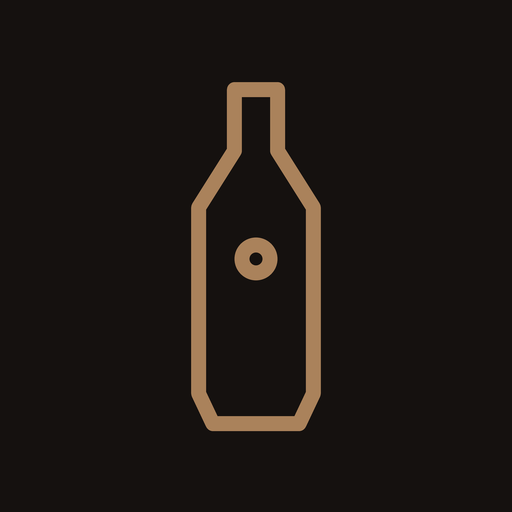
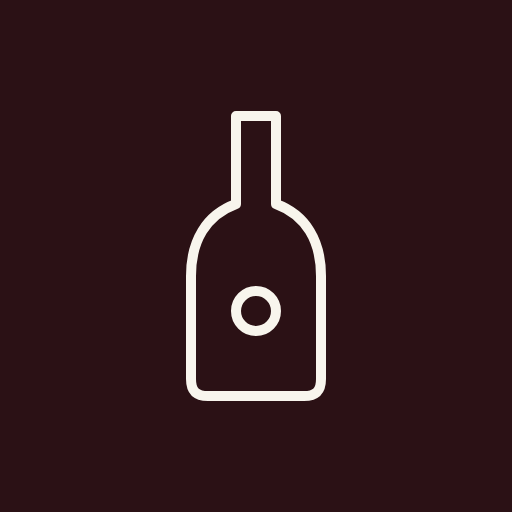
Allinea marchio e icone al brand book Caveau
Aggiorna logo, simbolo e icone, inclusa apple-touch-icon per iPhone. Conserva font e interfaccia Market Edition. Include i due SVG nella cache e aggiorna la versione degli asset.

Changed region(s): [[0.3438, 0.1562, 0.6562, 0.8438], [0.4375, 0.4375, 0.5625, 0.6562]]

diff --git a/index.html b/index.html
@@ -45,7 +45,7 @@ window.CAVEAU_LINGUA = LINGUA; document.documentElement.lang = LINGUA;
   #porta[hidden]{display:none}
   .porta-in{width:100%;max-width:420px}
   .marchio{display:flex;align-items:center;justify-content:center;gap:12px;margin:0 0 8px;color:var(--t1);font-weight:700;font-size:22px;letter-spacing:-.03em}
-  .marchio svg{height:26px;width:auto;color:var(--acc)}
+  .marchio img{height:36px;width:auto;display:block}
   .porta h1{font-size:11px;font-family:var(--mono);font-weight:500;letter-spacing:.24em;text-transform:uppercase;color:var(--acc);text-align:center;margin:0 0 10px}
   .porta .claim{text-align:center;color:var(--t2);font-size:14.5px;line-height:1.55;margin:0 0 26px}
   .scheda{background:var(--glass);backdrop-filter:var(--blur);-webkit-backdrop-filter:var(--blur);border:1px solid var(--ed);border-radius:16px;padding:22px}
@@ -88,7 +88,7 @@ window.CAVEAU_LINGUA = LINGUA; document.documentElement.lang = LINGUA;
 
 <div id="porta" class="porta" hidden>
   <div class="porta-in">
-    <div class="marchio"><svg viewBox="0 0 10 22" aria-hidden="true"><path d="M3.6 1h2.8v5.3c1.5.7 2.4 2.1 2.4 3.9V19a2 2 0 0 1-2 2H2.8a2 2 0 0 1-2-2v-8.8c0-1.8.9-3.2 2.8-3.9V1Z" fill="none" stroke="currentColor" stroke-width="1.4" stroke-linejoin="round"/></svg>CAVEAU</div>
+    <div class="marchio"><img src="marchio-caveau.svg" alt="Caveau" width="863" height="172"></div>
     <h1>La tua cantina · lo Speakeasy</h1>
     <p class="claim">Una porta sola: dentro c’è la tua cantina, ordinata e sotto controllo, e lo Speakeasy, la cantina aggregata del Club.</p>
 
@@ -149,7 +149,7 @@ window.CAVEAU_LINGUA = LINGUA; document.documentElement.lang = LINGUA;
 <div id="root"></div>
 
 <script src="supabase.js"></script>
-<script>document.write('<script src="dati' + (LINGUA === 'en' ? '.en' : '') + '.js?v=20.0"><\/script><script src="app' + (LINGUA === 'en' ? '.en' : '') + '.js?v=20.0"><\/script>');</script>
+<script>document.write('<script src="dati' + (LINGUA === 'en' ? '.en' : '') + '.js?v=20.1"><\/script><script src="app' + (LINGUA === 'en' ? '.en' : '') + '.js?v=20.1"><\/script>');</script>
 <script>
 (function () {
   var attesa = document.getElementById('attesa');

diff --git a/app.js b/app.js
@@ -715,6 +715,7 @@
 '.brand .mk{height:clamp(44px,7vw,80px)}',
 '.nav-br{display:flex;align-items:center;gap:10px;color:var(--t2)}',
 '.nav-br .mk{height:20px;color:var(--bronzo)}',
+'.nav-logo{height:32px;width:auto;display:block}',
 '.nav-br b{font-weight:500;letter-spacing:.16em;text-transform:uppercase;font-size:11px}',
 /* le striscioline: piu larghe e con cinque tinte separate a colpo d'occhio */
 '.lc::after{width:3px;opacity:1}',
@@ -2695,7 +2696,7 @@
   ];
   function topbar() {
     return '<nav class="nav"><div class="nav-in">' +
-      '<span class="nav-br">' + MARCHIO + '<b>CAVEAU</b><span class="piano' + (clubAttivo() ? ' club' : '') + '">' + (clubAttivo() ? 'Club' : 'Cantina') + '</span></span>' +
+      '<span class="nav-br"><img class="nav-logo" src="marchio-caveau.svg" alt="Caveau" width="863" height="172"><span class="piano' + (clubAttivo() ? ' club' : '') + '">' + (clubAttivo() ? 'Club' : 'Cantina') + '</span></span>' +
       '<div class="nav-l">' + stanzeVisibili().map(function (z) {
         return '<button type="button" class="nvb' + (z.k === 'club' ? ' club' : '') + (stanza === z.k ? ' on' : '') + '" data-stanza="' + z.k + '"' +
           (stanza === z.k ? ' aria-current="page"' : '') + '><span class="nvn tab">' + z.n + '</span>' + z.t + '</button>';
@@ -2746,10 +2747,7 @@
 
   /* Il marchio: la stessa bottiglietta di Caveau, disegnata come SVG
      cosi resta nitida a ogni dimensione e prende il colore dal contesto. */
-  var MARCHIO = '<svg class="mk" viewBox="0 0 30 62" fill="none" aria-hidden="true">' +
-    '<path d="M12 2.2h6v10.6c0 2.5 5 4.7 5 9.8v32.2a5.2 5.2 0 0 1-5.2 5.2h-5.6A5.2 5.2 0 0 1 7 54.8V22.6c0-5.1 5-7.3 5-9.8V2.2Z" ' +
-    'stroke="currentColor" stroke-width="2.1" stroke-linejoin="round"/>' +
-    '<circle cx="15" cy="31.5" r="3.5" stroke="currentColor" stroke-width="2.1"/></svg>';
+  var MARCHIO = '<img class="mk" src="simbolo-caveau.svg" alt="" width="160" height="300">';
 
   function mast() {
     var inC = STATE.bottles.filter(inCantina);

diff --git a/app.en.js b/app.en.js
@@ -715,6 +715,7 @@
 '.brand .mk{height:clamp(44px,7vw,80px)}',
 '.nav-br{display:flex;align-items:center;gap:10px;color:var(--t2)}',
 '.nav-br .mk{height:20px;color:var(--bronzo)}',
+'.nav-logo{height:32px;width:auto;display:block}',
 '.nav-br b{font-weight:500;letter-spacing:.16em;text-transform:uppercase;font-size:11px}',
 /* le striscioline: piu larghe e con cinque tinte separate a colpo d'occhio */
 '.lc::after{width:3px;opacity:1}',
@@ -2695,7 +2696,7 @@
   ];
   function topbar() {
     return '<nav class="nav"><div class="nav-in">' +
-      '<span class="nav-br">' + MARCHIO + '<b>CAVEAU</b><span class="piano' + (clubAttivo() ? ' club' : '') + '">' + (clubAttivo() ? 'Club' : 'Cellar') + '</span></span>' +
+      '<span class="nav-br"><img class="nav-logo" src="marchio-caveau.svg" alt="Caveau" width="863" height="172"><span class="piano' + (clubAttivo() ? ' club' : '') + '">' + (clubAttivo() ? 'Club' : 'Cellar') + '</span></span>' +
       '<div class="nav-l">' + stanzeVisibili().map(function (z) {
         return '<button type="button" class="nvb' + (z.k === 'club' ? ' club' : '') + (stanza === z.k ? ' on' : '') + '" data-stanza="' + z.k + '"' +
           (stanza === z.k ? ' aria-current="page"' : '') + '><span class="nvn tab">' + z.n + '</span>' + z.t + '</button>';
@@ -2746,10 +2747,7 @@
 
   /* Il marchio: la stessa bottiglietta di Caveau, disegnata come SVG
      cosi resta nitida a ogni dimensione e prende il colore dal contesto. */
-  var MARCHIO = '<svg class="mk" viewBox="0 0 30 62" fill="none" aria-hidden="true">' +
-    '<path d="M12 2.2h6v10.6c0 2.5 5 4.7 5 9.8v32.2a5.2 5.2 0 0 1-5.2 5.2h-5.6A5.2 5.2 0 0 1 7 54.8V22.6c0-5.1 5-7.3 5-9.8V2.2Z" ' +
-    'stroke="currentColor" stroke-width="2.1" stroke-linejoin="round"/>' +
-    '<circle cx="15" cy="31.5" r="3.5" stroke="currentColor" stroke-width="2.1"/></svg>';
+  var MARCHIO = '<img class="mk" src="simbolo-caveau.svg" alt="" width="160" height="300">';
 
   function mast() {
     var inC = STATE.bottles.filter(inCantina);

diff --git a/sw.js b/sw.js
@@ -6,7 +6,7 @@
    una cantina vecchia credendola aggiornata.
    Per pubblicare una versione nuova basta cambiare VERSIONE.
    ============================================================= */
-var VERSIONE = 'caveau-20.0';
+var VERSIONE = 'caveau-20.1';
 
 var INVOLUCRO = [
   './',
@@ -21,7 +21,9 @@ var INVOLUCRO = [
   './icona-512.png',
   './icona-maskable-512.png',
   './icona-180.png',
-  './favicon-32.png'
+  './favicon-32.png',
+  './marchio-caveau.svg',
+  './simbolo-caveau.svg'
 ];
 
 self.addEventListener('install', function (e) {
